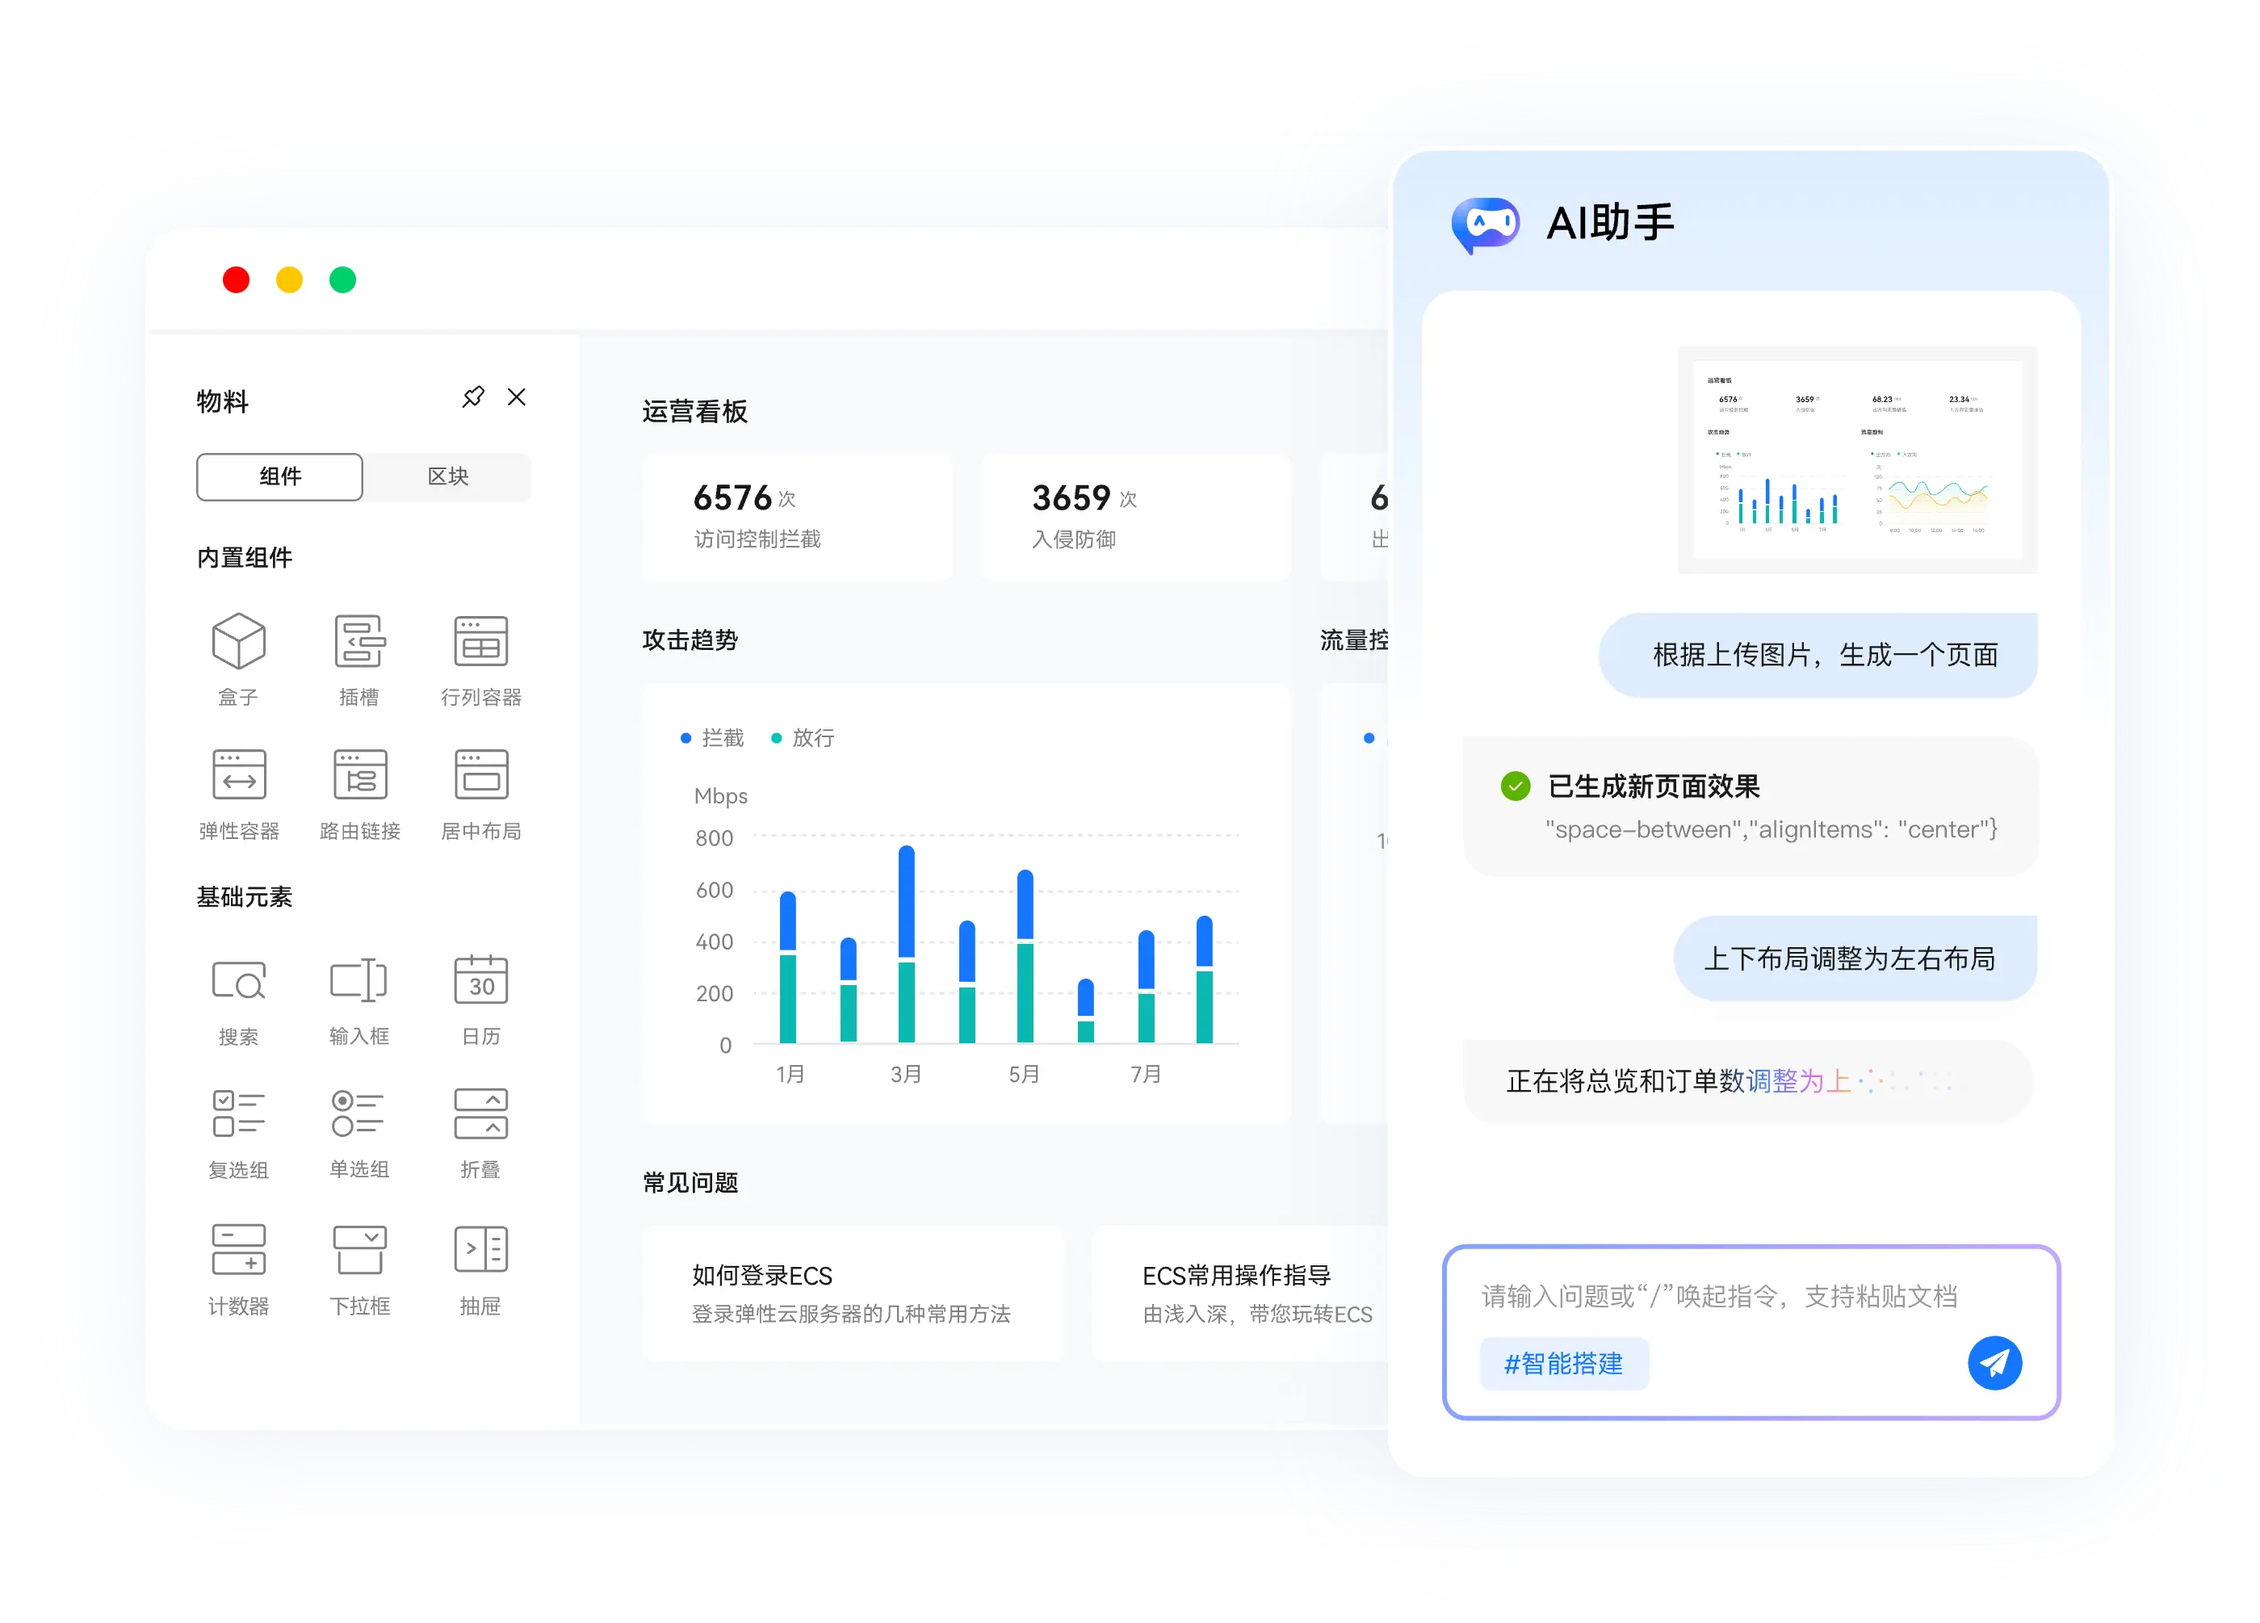
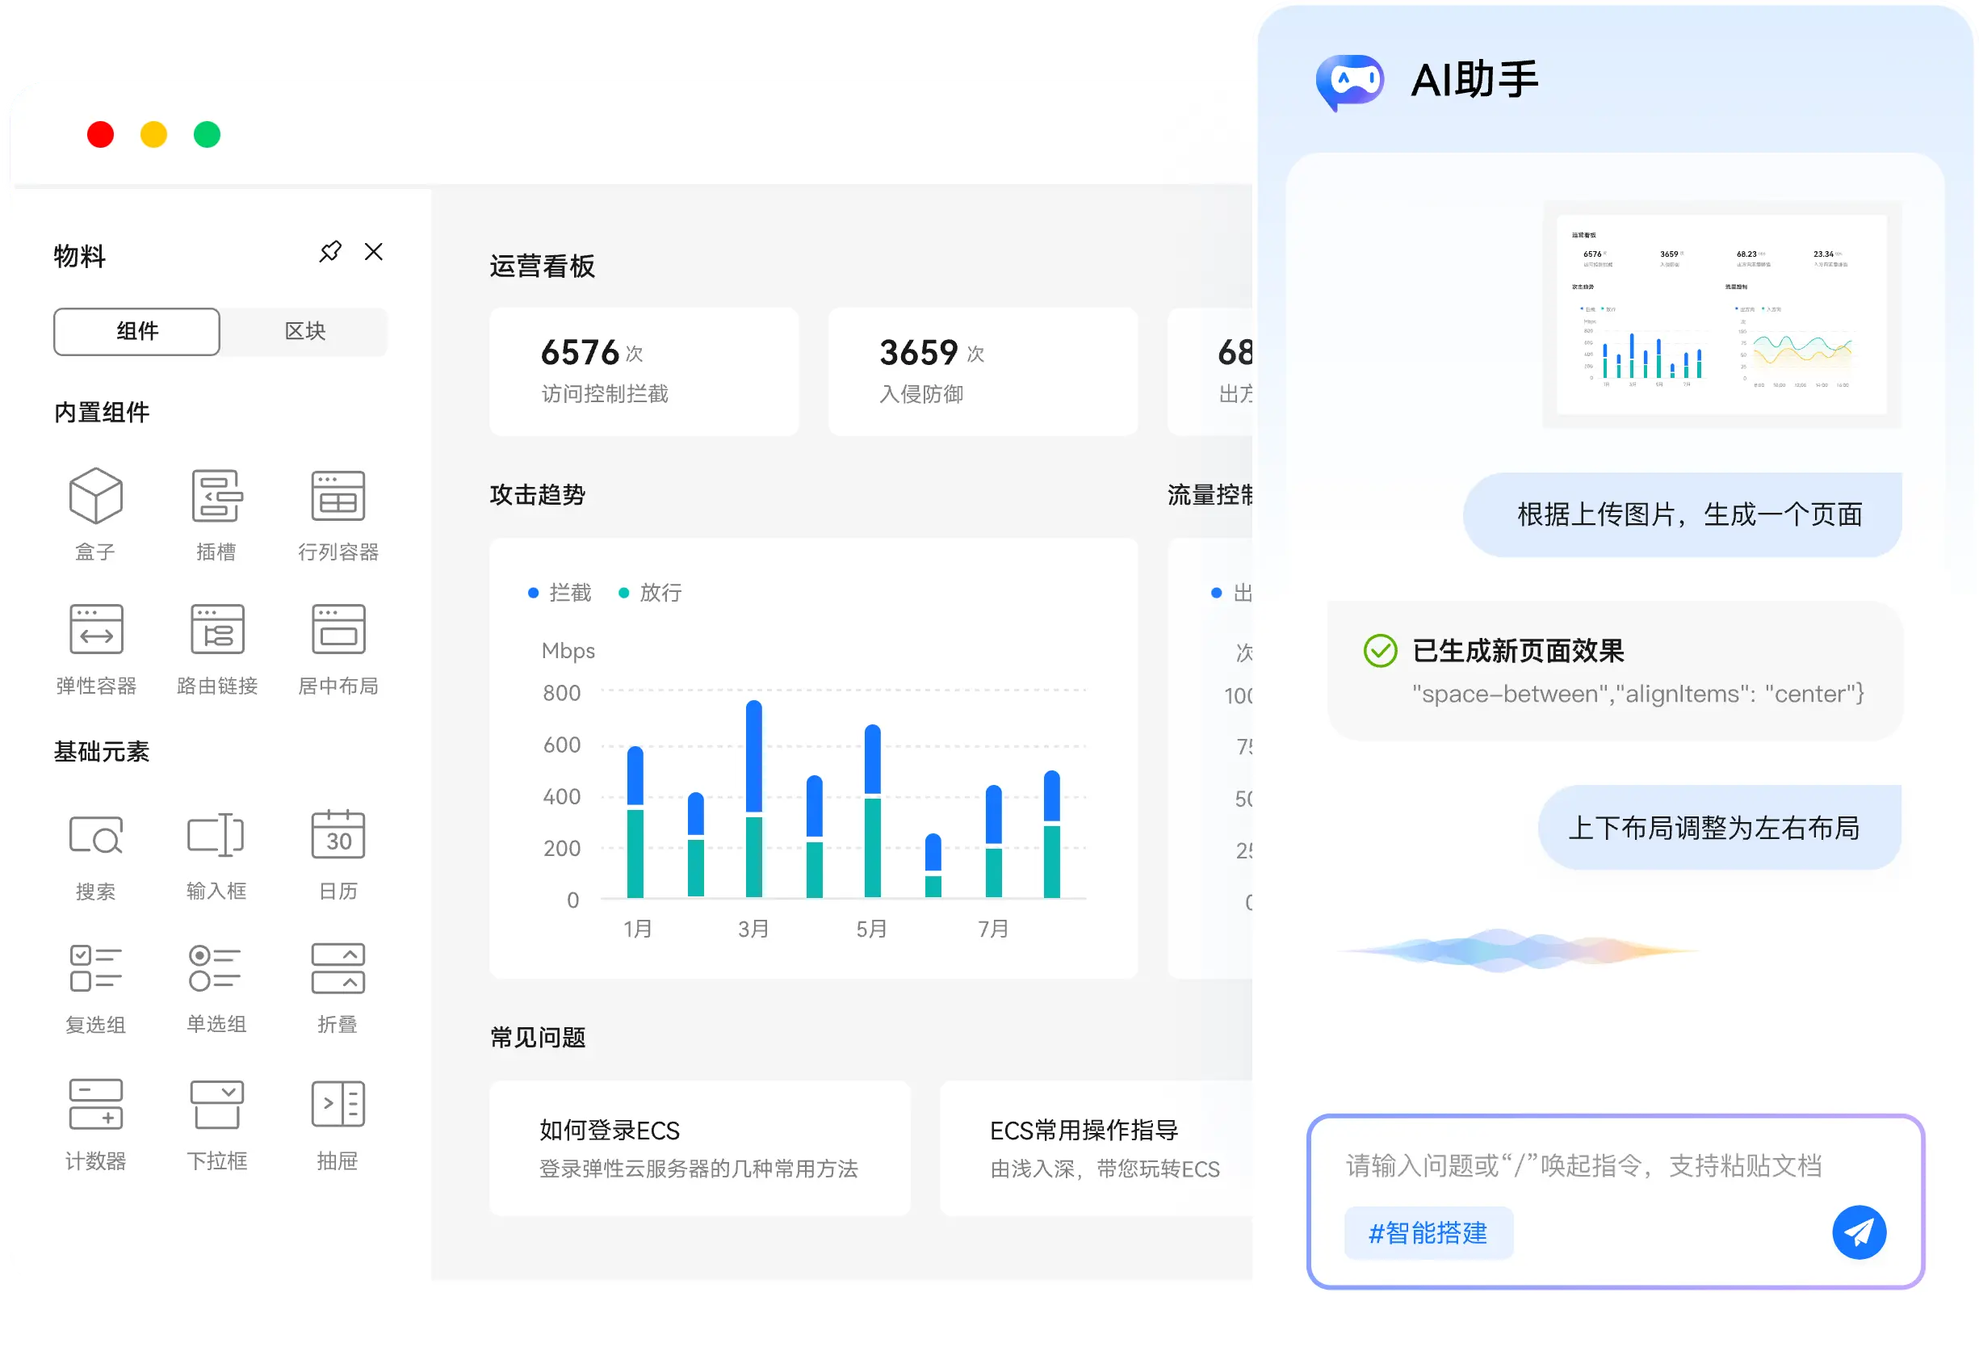
fix: Optimized details on the home page of the tiny-engine official website (#53)

diff --git a/packages/tiny-engine-portal/src/home/HomeAdvantages.vue b/packages/tiny-engine-portal/src/home/HomeAdvantages.vue
@@ -7,9 +7,8 @@
         v-for="(item, index) in state.list"
         :key="index"
         class="list-item"
-        :style="{ 'box-shadow': item.boxShadow, 'border-color': item.border }"
       >
-        <div class="list-box" :style="{ 'background-image': `url(${item.bgUrl})` }">
+        <div :class="`list-box  list-box-${index % 5}`">
           <img :src="item.iconUrl" />
           <div class="item-content">
             <span class="item-title">{{ item.title }}</span>
@@ -34,41 +33,26 @@ export default {
           title: 'AI智能开发',
           des: '支持自然语言与图片生成，集成MCP能力，AI对话调用TinyEngine内置工具',
           iconUrl: `${import.meta.env.BASE_URL}img/home/ad_icon1.svg`,
-          bgUrl: `${import.meta.env.BASE_URL}img/home/ad_bg1.svg`,
-          boxShadow: '0 4px 30px 0 #EEF0EC',
-          border: '#E9F1E0'
         },
         {
           title: '定制低码平台',
           des: '提供开箱即用的在线构建能力，并支持灵活进行二次开发与系统集成',
           iconUrl: `${import.meta.env.BASE_URL}img/home/ad_icon2.svg`,
-          bgUrl: `${import.meta.env.BASE_URL}img/home/ad_bg2.svg`,
-          boxShadow: '0 4px 30px 0 #EFECF1',
-          border: '#F2EEF6'
         },
         {
           title: '高低代码混合开发',
           des: '提供高低代码双模开发能力，支持根据场景自由选用与混合部署',
           iconUrl: `${import.meta.env.BASE_URL}img/home/ad_icon3.svg`,
-          bgUrl: `${import.meta.env.BASE_URL}img/home/ad_bg3.svg`,
-          boxShadow: '0 4px 30px 0 #E9ECEE',
-          border: '#ECF1F6'
         },
         {
           title: '生成源码部署',
           des: '生成完全独立的可部署源码，保障用户的技术自主权与灵活度',
           iconUrl: `${import.meta.env.BASE_URL}img/home/ad_icon4.svg`,
-          bgUrl: `${import.meta.env.BASE_URL}img/home/ad_bg4.svg`,
-          boxShadow: '0 4px 30px 0 #EDF2EE',
-          border: '#E8F6EE'
         },
         {
           title: '开放协议接口',
           des: '提供开放的协议接口，支持第三方组件的无缝接入与扩展插件的灵活定制',
           iconUrl: `${import.meta.env.BASE_URL}img/home/ad_icon5.svg`,
-          bgUrl: `${import.meta.env.BASE_URL}img/home/ad_bg5.svg`,
-          boxShadow: '0 4px 30px 0 #F0EFEE',
-          border: '#F6F1EB'
         }
       ]
     })
@@ -117,17 +101,31 @@ export default {
     border-radius: 16px;
     display: flex;
     flex-direction: column;
-    padding: 2px;
+    padding: 3px;
     transition: transform 0.3s ease;
+    box-shadow: 0 4px 26px 0 rgba(234, 233, 237, 0.9);
     .list-box {
       box-sizing: border-box;
-      width: 442px;
-      height: 258px;
       padding: 46px 48px;
       background-repeat: no-repeat;
       background-size: cover;
       background-position: center center;
       border-radius: 16px;
+      &-0 {
+        background: linear-gradient(to bottom, #f5fbef, #fff);
+      }
+      &-1 {
+        background: linear-gradient(to bottom, #f9f4fe, #fff);
+      }
+      &-2 {
+        background: linear-gradient(to bottom, #eef6ff, #fff);
+      }
+      &-3 {
+        background: linear-gradient(to bottom, #f3fffe, #fff);
+      }
+      &-4 {
+        background: linear-gradient(to bottom, #fff3f3, #fff);
+      }
     }
     img {
       width: 64px;
@@ -178,13 +176,10 @@ export default {
     .list-item {
       width: 100%;
       height: 106px;
-      border-radius: 10px;
+      border-radius: 6px;
       padding: 1px;
-      box-shadow: none !important;
-      border: 1px solid #e9f1e0;
+      box-shadow: 0 4px 12px 0 rgba(234, 233, 237, 0.9);
       .list-box {
-        width: 100%;
-        height: 104px;
         padding: 24px 22px;
         border-radius: 10px;
         display: flex;

diff --git a/packages/tiny-engine-portal/src/home/HomeMultiScenario.vue b/packages/tiny-engine-portal/src/home/HomeMultiScenario.vue
@@ -315,7 +315,7 @@ export default {
   overflow: hidden;
   visibility: hidden;
   transition: transform 0.5s ease;
-  background-image: url(/img/home/case_bg.svg);
+  background-image: url(/img/home/case_bg.webp);
   background-repeat: no-repeat;
   background-size: cover;
   background-position: center center;
@@ -381,7 +381,7 @@ export default {
         border-radius: 12px;
         width: 100%;
         .mobile-image-section {
-          background-image: url(/img/home/case_bg.svg);
+          background-image: url(/img/home/case_bg.webp);
           background-repeat: no-repeat;
           background-size: cover;
           background-position: center center;

diff --git a/packages/tiny-engine-portal/src/home/HomeCoreScenarios.vue b/packages/tiny-engine-portal/src/home/HomeCoreScenarios.vue
@@ -103,7 +103,7 @@ export default {
     .list-bg {
       padding: 6px;
       background: #deecff;
-      border-radius: 40px;
+      border-radius: 36px;
     }
     .list-bg:hover {
       box-shadow: 0 4px 60px 0 #e5e8f1;
@@ -113,7 +113,7 @@ export default {
       grid-template-columns: repeat(3, 1fr);
       column-gap: 14%;
       background: #fff;
-      border-radius: 36px;
+      border-radius: 30px;
       padding: 80px 92px;
     }
     .list-item {

diff --git a/packages/tiny-engine-portal/src/home/HomeTop.vue b/packages/tiny-engine-portal/src/home/HomeTop.vue
@@ -170,13 +170,13 @@ export default {
       }
     }
     .home-image {
-      max-width: 950px;
+      max-width: 820px;
       box-shadow: 0 0 0 0 rgba(0, 0, 0, 0.08);
       animation: slideUpFadeIn 0.8s ease forwards;
       border-radius: 24px;
       .image-bg1 {
         width: 100%;
-        box-shadow: 0 0 0 0 rgba(0, 0, 0, 0.08);
+        filter: drop-shadow(0 0 70px rgba(184, 199, 227, 0.3));
         border-radius: 24px;
       }
     }

diff --git a/packages/tiny-engine-portal/src/home/Main.vue b/packages/tiny-engine-portal/src/home/Main.vue
@@ -51,7 +51,7 @@ export default {
 <style lang="less" scoped>
 .home {
   --max-width: 1440px;
-  --top-max-width: 1580px;
+  --top-max-width: 1500px;
   --padding-big: 60px;
   --padding-small: 40px;
   --padding-mobile: 20px;
@@ -130,7 +130,6 @@ export default {
     :deep(.home-top) {
       box-sizing: border-box;
       padding: 0px 60px;
-      padding-left: 180px;
       .home-top-banner {
         max-width: var(--top-max-width);
       }
